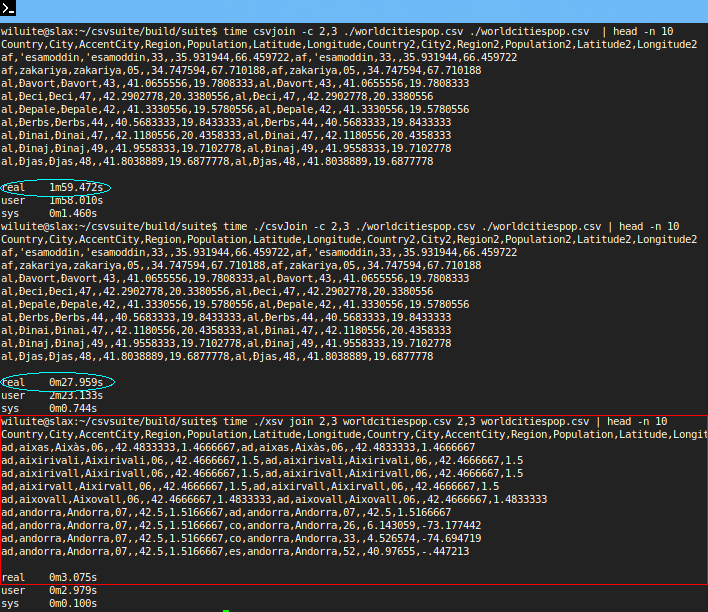
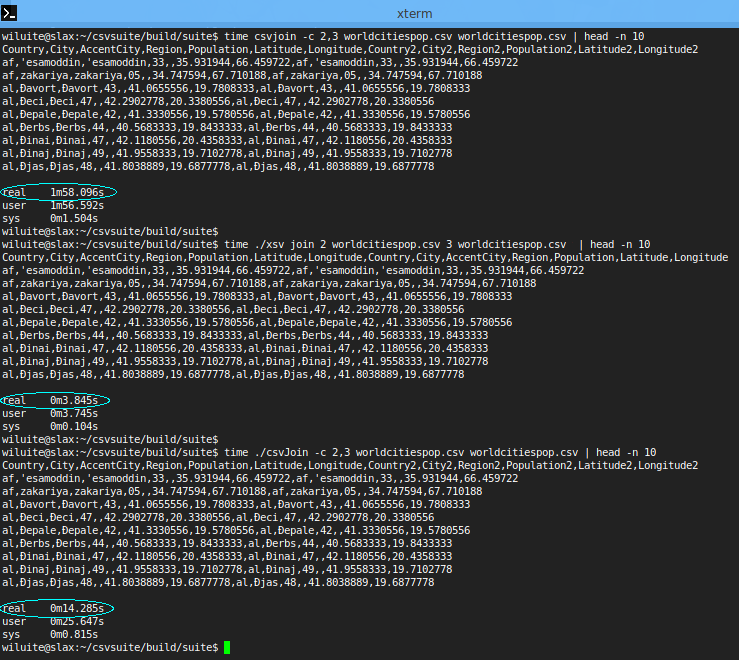
Updated joinning performance results.

diff --git a/README.md b/README.md
@@ -262,7 +262,7 @@ probably because the _csvsql_ spends a significant part of the time determining 
 Now we will try to display the first 10 results corresponding to the conditions when the City and AccentCity fields in
 the worldcitiespop.csv file are equal. Here the _csvJoin_ outperforms the _csvjoin_ only by a factor of 4.
 
-<img alt="image info" height="612" src="./img/join.png" width="708"/>
+<img alt="image info" height="660" src="./img/join.png" width="739"/>
 
 We see that the results calculated using the _csvjoin_ and the _csvJoin_ are the same, which is not the case with
 the _xsv_, whose results are incorrect, although they are mind-blowingly fast.
